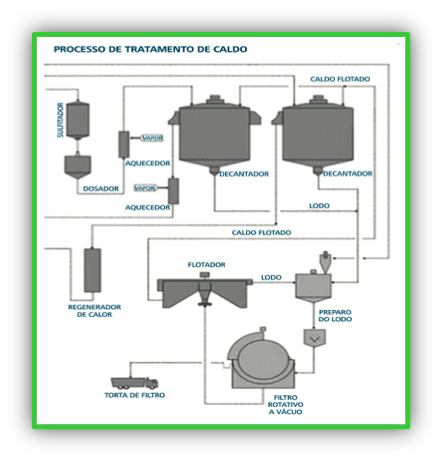
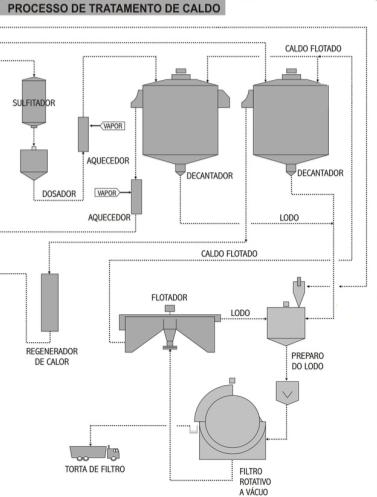
Aula 5 até topico 4 - Rafael

diff --git a/Aula05/03.html b/Aula05/03.html
@@ -191,12 +191,110 @@
    </div>
    <div class="coluna principal">
     <div class="coluna principal quadro">
-     <p>
-      Conteúdo da Aula
-     </p>
+	    <p>Caro (a) aluno (a),</p>
+		<p>Seja bem vindo ao tópico 3 da nossa aula 05 do Curso, <b>“A QUIMICA NOSSA DE CADA DIA”</b> esperamos que aproveite bastante nossa aula, pois iremos tratar de um assunto interessante, <b>Tipos de açúcar que consumimos</b>.</p>
+		<p style='float:right;'>Bons estudos!</p>
     </div>
    </div>
   </div>
+  
+ 
+  <div class="linha">
+		<div class="coluna lateral">
+	    	<br/>
+	   	</div>
+	   	<div class="coluna principal">
+			<p><b> TIPOS DE AÇÚCAR QUE CONSUMIMOS</b></p> 
+			<p><b> AÇÚCAR REFINADO GRANULADO</b></p>
+			<p>Ver efeito .doc aula 5 topico 3 pagina 13</p>
+			
+			<p><b>VEJAMOS AS IMAGENS A SEGUIR:</b></p>
+			
+			<img style='float:left;' width='180' src="imagens/03/01.png"/>
+			<img style='float:left;' width='180' src="imagens/03/02.png"/> 
+			<img style='float:left;' width='180' src="imagens/03/03.png"/> 
+		</div>
+	</div>
+  	<br/>
+  	<br/>
+  	<br/>
+  	
+  	<div class="linha">
+		<div class="coluna lateral">
+	    	<img src="layout/referencias.png" width="100px" height="50"/>
+	   	</div>
+	   	<div class="coluna principal">
+		    <div class="coluna principal quadro">
+				<p>
+					<b>Figura 6</b>: açúcar bruto<br/>
+					Fonte: <a target='_blank' href='http://revistasaboresdosul.com.br/painel/index.php/files/large/1039'>http://revistasaboresdosul.com.br/painel/index.php/files/large/1039</a>
+				</p>
+				<p>	
+					<b>Figura 6</b>: açúcar bruto<br/>
+					Fonte: <a target='_blank' href='http://www.cookthink.com/reference/1943/Meet_the_sugars'>http://www.cookthink.com/reference/1943/Meet_the_sugars</a>
+				</p>
+				<p>	
+					<b>Figura 8</b>: açúcar cristal<br/>
+					Fonte: <a target='_blank' href='http://revistasaboresdosul.com.br/painel/index.php/files/large/1039'>http://revistasaboresdosul.com.br/painel/index.php/files/large/1039</a>
+				</p>
+				<p>
+					<b>Figura 9</b>: açúcar demerara<br/>
+					Fonte: <a target='_blank' href='http://www.cookthink.com/reference/3394/What_is_Demerara_sugar'>http://www.cookthink.com/reference/3394/What_is_Demerara_sugar</a>
+				</p>
+		    </div>
+		</div>
+	</div>
+  	<br/>
+  	<br/>
+  	<br/>
+  
+	<div class="linha">
+		<div class="coluna lateral">
+	    	<br/>
+	   	</div>
+	   	<div class="coluna principal">
+			<p><b>VEJAMOS ALGUNS TIPOS DE AÇÚCAR:</b></p> 
+			<img style='float:left;' width='180' src="imagens/03/04.png"/>
+			<p><span style='color:green;'><b>Açúcar mascavo:</b></span> Açúcar de cor amarronzada, que não passa pelo processo de branqueamento, cristalização e refino (como o açúcar cristal). Possui sabor mais forte que o açúcar cristal, com sabor semelhante ao do melaço e da rapadura.  É utilizado para a produção de pães, bolos e biscoitos integrais e granolas.</p>
+			<br/>
+			<br/>
+			<br/>
+			<br/>
+			<br/>
+			<br/>
+			<br/>
+			<br/>
+			<br/>
+			<br/>
+			<br/>
+			<p><span style='color:green;'><b>Açúcar confeiteiro:</b></span> Tem grânulos bem finos, mais que o refinado, e cristalino. É destinado à indústria alimentícia, sendo muito utilizado no preparo de bolos, glacês, coberturas, suspiros, etc.</p> 
+			<p><span style='color:green;'><b>Açúcar light:</b></span>  É constituído pela mistura de açúcar refinado e edulcorantes. Tem proporcionalmente menor conteúdo calórico e maior poder adoçante do que o açúcar refinado.</p>
+			<p>Ver .doc EFEITO PROFESSOR NA LOUSA NOVO aula 5 topico 3 pagina 16</p>
+			<p><span style='color:green;'><b>Açúcar líquido invertido:</b></span>  O açúcar líquido é um adoçante natural de sacarose apresentado na forma líquida em uma solução inodora, límpida e cristalina, obtido pela dissolução de açúcar sólido em água, com posterior purificação e descoloração, o que garante a esse produto alta transparência e limpidez.</p> 
+		</div>
+	</div>
+  	<br/>
+  	<br/>
+  	<br/>
+  	
+  	<div class="linha">
+		<div class="coluna lateral">
+	    	<img src="layout/referencias.png" width="100px" height="50"/>
+	   	</div>
+	   	<div class="coluna principal">
+		    <div class="coluna principal quadro">	
+				<h2><b>FIQUE ATENTO AOS REFERENCIAIS:</b></h2>
+				<p>Figura 10: açúcar mascavo </p>
+				<p>Fonte: <a target='_blank' href='http://comosereformaumplaneta.wordpress.com/2009/11/27/acucar-mascavo/'>http://comosereformaumplaneta.wordpress.com/2009/11/27/acucar-mascavo/</a></p>
+		    	<p>Figura 11: xarope de açúcar invertido </p>
+				<p>Fonte: <a target='_blank' href='http://www.heavenskitchen.com.br/heavens-detalhesreceita-358.htm'>http://www.heavenskitchen.com.br/heavens-detalhesreceita-358.htm</a></p>
+		    </div>
+		</div>
+	</div>
+  	<br/>
+  	<br/>
+  	<br/>
+  	
   <div class="linha">
    <div id="rodape">
     <ul id="rodape_navegacao">

diff --git a/Aula05/04.html b/Aula05/04.html
@@ -191,12 +191,109 @@
    </div>
    <div class="coluna principal">
     <div class="coluna principal quadro">
-     <p>
-      Conteúdo da Aula
-     </p>
+    	<p>Caro (a) aluno (a),</p>
+		<p>Seja bem vindo ao tópico 4 da nossa aula 05 do Curso, <b>“A QUIMICA NOSSA DE CADA DIA”</b> esperamos que aproveite bastante nossa aula, pois iremos tratar de um assunto interessante, sobre as origens dos açúcares.</p>
+		<p style='float:right;'>Vamos a nossa aula!</p>
     </div>
    </div>
   </div>
+  
+ 	<div class="linha">
+		<div class="coluna lateral">
+	    	<br/>
+	   	</div>
+	   	<div class="coluna principal">
+			
+			<img style='float:left;' width='180' src="imagens/04/01.png"/>
+			<p><b>O AÇÚCAR É PROVENIENTE SOMENTE DA CANA DE AÇÚCAR?</b></p> 
+			<p>Não. O açúcar que conhecemos também pode ser produzido a partir de outras plantas, como algumas frutas e a beterraba. A produção que se destaca (após o açúcar proveniente da cana) em escala industrial é o açúcar da beterraba (<i>Beta vulgaris L.</i>). </p> 
+		</div>
+	</div>
+  	<br/>
+  	<br/>
+  	<br/>
+  	
+  	<div class="linha">
+		<div class="coluna lateral">
+	    	<img src="layout/voce_sabia.png" width="100px" height="50"/>
+	   	</div>
+	   	<div class="coluna principal">
+		    <div class="coluna principal quadro">
+				<h2><b>VOCÊ SABIA???</b></h2>
+				<p>Que a beterraba cultivada na Europa tem coloração branca!</p>
+				<p>Ela pertence à mesma espécie da beterraba vermelha (Beta vulgaris L.) que conhecemos aqui no Brasil, porém, devido a um processo de seleção que ocorreu ao longo dos tempos, a beterraba de mesa (vermelha) tornou-se mais vistosa e com o paladar mais agradável e a outra variedade (branca) mais clara e mais doce.</p>
+			</div>
+		</div>
+	</div>
+  	<br/>
+  	<br/>
+  	<br/>
+  	
+  	<div class="linha">
+		<div class="coluna lateral">
+	    	<br/>
+	   	</div>
+	   	<div class="coluna principal">
+			<p>Ver .doc EFEITO FOLHINHA RASPADINHA aula 5 topico 4 pagina 18</p>
+			<p><b>COMO SENTIMOS O SABOR DOCE?</b></p> 
+			<img style='float:left;' width='220' src="imagens/04/02.png"/>
+			<p>A percepção dos gostos amargo, doce, salgado e ácido é feita pelas papilas gustativas, receptores sensoriais do paladar (um dos cinco sentidos), cujo órgão responsável é a língua. Na parte superior da língua, existem pequenas elevações, denominadas de papilas linguais, que são constituídas por um conjunto de microscópicas células sensoriais, que captam os estímulos de sabor e enviam para o cérebro, os transformando em sensações gustatórias.</p> 
+			<br/>
+			<br/>
+			<br/>
+			<p>Ver .doc EFEITO CAPSULA aula 5 topico 4 pagina 18</p>
+			<p>O uso continuo de cigarros e de alguns remédios, entre outros motivos, podem diminuir a capacidade sensorial das papilas linguais, causando a ageusia, ou seja, a falta de paladar.</p>
+		</div>
+	</div>
+  	<br/>
+  	<br/>
+  	<br/>
+  	
+  	<div class="linha">
+		<div class="coluna lateral">
+	    	<img src="layout/fique_por_dentro.png" width="100px" height="50"/>
+	   	</div>
+	   	<div class="coluna principal">
+		    <div class="coluna principal quadro">	
+				<p>Que gosto e sabor são sensações totalmente diferentes!</p>
+				<p>O Gosto é representado por quatro tipos: doce, amargo, salgado e ácido. Enquanto que o sabor é uma sensação mais complexa, uma vez que, é uma mistura de quatro gostos básicos (paladar) e do cheiro, o olfato. Destes 90% do sabor deve-se ao olfato e 10% ao paladar.</p>
+		    	
+		    </div>
+		</div>
+	</div>
+  	<br/>
+  	<br/>
+  	<br/>
+  	
+  	<div class="linha">
+		<div class="coluna lateral">
+	    	<br/>
+	   	</div>
+	   	<div class="coluna principal">
+			<p><b>ATENÇÃO A IMAGEM A SEGUIR:</b></p> 
+			<img width='600' src="imagens/04/03.jpg"/>
+		</div>
+	</div>
+  	<br/>
+  	<br/>
+  	<br/>
+  	<div class="linha">
+		<div class="coluna lateral">
+	    	<img src="layout/referencias.png" width="100px" height="50"/>
+	   	</div>
+	   	<div class="coluna principal">
+		    <div class="coluna principal quadro">	
+				<h2><b>NÃO ESQUEÇA AS REFERENCIAS:</b></h2>
+				<p>Figura 11: <a target='_blank' href='http://www.tamkids.com.br/img/publicacoes/como-sentimos-o-gosto-dos-alimentos.png'>http://www.tamkids.com.br/img/publicacoes/como-sentimos-o-gosto-dos-alimentos.png</a></p>
+		    	<p>Figura 12: <a target='_blank' href='http://gourmetsaude.com/gs/wp-content/uploads/2012/10/548167_114889238664665_522180685_n1.jpg'>http://gourmetsaude.com/gs/wp-content/uploads/2012/10/548167_114889238664665_522180685_n1.jpg</a></p>
+		    </div>
+		</div>
+	</div>
+  	<br/>
+  	<br/>
+  	<br/>
+  	
+  
   <div class="linha">
    <div id="rodape">
     <ul id="rodape_navegacao">

diff --git a/Aula05/02.html b/Aula05/02.html
@@ -192,7 +192,7 @@
    <div class="coluna principal">
     <div class="coluna principal quadro">
     	<p>Caro (a) aluno (a),</p>
-		<p>Seja bem vindo ao tópico 2 da nossa aula 04 do Curso, <b>“A QUIMICA NOSSA DE CADA DIA”</b> esperamos que aproveite bastante nossa aula, pois iremos tratar de um assunto interessante, <b> O Processo de Fabricação do Açúcar</b>.</p> 
+		<p>Seja bem vindo ao tópico 2 da nossa aula 05 do Curso, <b>“A QUIMICA NOSSA DE CADA DIA”</b> esperamos que aproveite bastante nossa aula, pois iremos tratar de um assunto interessante, <b> O Processo de Fabricação do Açúcar</b>.</p> 
 		<p style='float:right;'>Bons estudos!</p>
     </div>
    </div>
@@ -207,14 +207,32 @@
 			<img style='float:left;' width='250' src="imagens/02/01.png"/> 
 			<p>A cana-de-açúcar após a maturação (Sólidos solúveis em torno de 13%) é colhida e transportada até a unidade produtora. A extração do caldo contido na cana é obtido por um processo de extração utilizando um conjunto de rolos (moendas). Cerca de  96% do caldo da cana é extraído sendo os 4% restantes, bagaço que será utilizado como combustível para cadeiras.</p> 
 			<p>O processo de produção do açúcar envolve especificamente etapas físicas e químicas que iremos estudar a seguir.</p>
-			<p>Ver efeito aula 5 topico 2 pagina 10</p>
+			<p>Ver efeito no .doc aula 5 topico 2 pagina 10</p>
 			<br/>
 			<p><b>VERIFIQUE</b></p>
+			<img width='400' src="imagens/02/02.png"/> 
 		</div>
 	</div>
   	<br/>
   	<br/>
   	<br/>
+  	
+  	<div class="linha">
+		<div class="coluna lateral">
+	    	<img src="layout/referencias.png" width="100px" height="50"/>
+	   	</div>
+	   	<div class="coluna principal">
+		    <div class="coluna principal quadro">	
+				<h2><b>FIQUE ATENTO AOS REFERENCIAIS:</b></h2>
+				<p>Figura 5: Processo de tratamento do caldo de cana. </p>
+				<p>Fonte: <a target='_blank' href='http://mundodacana.wordpress.com/2009/01/09/tratamento-do-caldo/'>http://mundodacana.wordpress.com/2009/01/09/tratamento-do-caldo/</a></p>
+		    </div>
+		</div>
+	</div>
+  	<br/>
+  	<br/>
+  	<br/>
+  	
   <div class="linha">
    <div id="rodape">
     <ul id="rodape_navegacao">

diff --git a/Aula05/01.html b/Aula05/01.html
@@ -191,12 +191,12 @@
    </div>
    <div class="coluna principal">
     <div class="coluna principal quadro">
-     <p>
+    
       	<p>Caro (a) aluno (a),</p>
-		<p>Seja bem vindos a aula 04 do Curso, <b>“A QUIMICA NOSSA DE CADA DIA”</b> esperamos que aproveite bastante nossa aula, pois iremos tratar de um assunto interessante, <b>o açúcar que utilizamos em nossa cozinha</b>.</p>
+		<p>Seja bem vindo a aula 05 do Curso, <b>“A QUIMICA NOSSA DE CADA DIA”</b> esperamos que aproveite bastante nossa aula, pois iremos tratar de um assunto interessante, <b>o açúcar que utilizamos em nossa cozinha</b>.</p>
 		<p style='float:right;'>Bons estudos!</p>
 
-     </p>
+     
     </div>
    </div>
   </div>
@@ -295,8 +295,8 @@
 	   	<div class="coluna principal">
 		    <div class="coluna principal quadro">	
 				<h2><b>FIQUE DE OLHO NAS REFERÊNCIAS</b></h2>
-				<p>Figura 1: <a href='http://upload.wikimedia.org/wikipedia/commons/8/8c/Saccharose.png'>http://upload.wikimedia.org/wikipedia/commons/8/8c/Saccharose.png</a></p>
-				<p>Figura 2: <a href='http://4.bp.blogspot.com/-0sMOtbNmlyU/UYAhpGLje6I/AAAAAAAAAR4/rlck5EajOaM/s1600/sacarose2.png'>http://4.bp.blogspot.com/-0sMOtbNmlyU/UYAhpGLje6I/AAAAAAAAAR4/rlck5EajOaM/s1600/sacarose2.png</a></p>
+				<p>Figura 1: <a target='_blank' href='http://upload.wikimedia.org/wikipedia/commons/8/8c/Saccharose.png'>http://upload.wikimedia.org/wikipedia/commons/8/8c/Saccharose.png</a></p>
+				<p>Figura 2: <a target='_blank' href='http://4.bp.blogspot.com/-0sMOtbNmlyU/UYAhpGLje6I/AAAAAAAAAR4/rlck5EajOaM/s1600/sacarose2.png'>http://4.bp.blogspot.com/-0sMOtbNmlyU/UYAhpGLje6I/AAAAAAAAAR4/rlck5EajOaM/s1600/sacarose2.png</a></p>
 		    </div>
 		</div>
 	</div>
